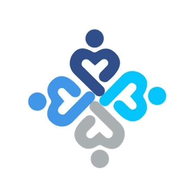
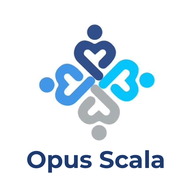
Novo nome: Opus Scala (ícone com o nome, tela de acesso, e-mails e avisos)
Claude-Session: https://claude.ai/code/session_01CbFvf9UYYjaysQvcZMUi3W

Changed region(s): [[0.125, 0.125, 0.875, 0.9062]]

diff --git a/app.js b/app.js
@@ -1,5 +1,5 @@
 /* =====================================================================
-   Plantão UTI — frontend (JavaScript puro, sem framework, sem build)
+   Opus Scala (antigo Plantão UTI) — frontend (JavaScript puro, sem framework, sem build)
    Blocos: helpers · supabase · state · data loading · realtime ·
            auth flow · views · actions · boot
    Toda regra que importa é validada no banco (RLS + funções RPC).
@@ -422,7 +422,7 @@
       ? ['Cadastro inativo', 'Seu cadastro está inativo. Se isso for um engano, fale com o gestor da escala.']
       : ['E-mail não cadastrado', 'O e-mail <b>' + esc(email) + '</b> não está cadastrado na equipe. Peça ao gestor para cadastrá-lo exatamente como você digitou, ou entre com outro e-mail.'];
     S.started = false;
-    setApp('<div class="center"><div class="card login stack"><div class="logo"><img src="icons/icon-192.png" alt=""><h2>' + t[0] + '</h2></div><p>' + t[1] + '</p><button class="btn block" data-act="logout">Sair e usar outro e-mail</button></div></div>');
+    setApp('<div class="center"><div class="card login stack"><div class="logo"><img class="logo-sym" src="icons/symbol.png" alt=""><h2>' + t[0] + '</h2></div><p>' + t[1] + '</p><button class="btn block" data-act="logout">Sair e usar outro e-mail</button></div></div>');
   }
 
   function showLogin(msg) {
@@ -448,7 +448,7 @@
         '<button type="button" class="btn ghost sm" data-act="resend" ' + (wait ? 'disabled' : '') + '>' + (wait ? 'Reenviar em ' + wait + ' s' : 'Reenviar código') + '</button></div>' +
         '<p class="hint">Você também pode tocar no link do e-mail. No iPhone, com o app instalado na tela inicial, prefira digitar o código.</p></form>';
     }
-    setApp('<div class="center"><div class="login"><div class="logo"><img src="icons/icon-192.png" alt=""><h1>Plantão UTI</h1><div class="muted small">Escala, trocas e presença</div></div>' +
+    setApp('<div class="center"><div class="login"><div class="logo"><img class="logo-sym" src="icons/symbol.png" alt=""><h1 class="wordmark">Opus Scala</h1><div class="muted small">Escala, trocas e presença dos plantões</div></div>' +
       '<div class="card">' + (msg ? '<div class="chip bad" style="white-space:normal;margin-bottom:12px;display:block;padding:8px 10px;border-radius:10px">' + esc(msg) + '</div>' : '') + body + '</div></div></div>');
     const f = L.step === 'email' ? $('#lg-email') : $('#lg-code');
     if (f) setTimeout(() => f.focus(), 50);
@@ -490,7 +490,7 @@
     try { body = views[S.tab](); } catch (e) { console.error(e); body = '<div class="card">Erro ao montar a tela: ' + esc(e.message) + '</div>'; }
     const y = window.scrollY;
     setApp(
-      '<header class="topbar"><div class="brand"><img src="icons/icon-192.png" alt=""><span>Plantão UTI</span></div><div class="spacer"></div>' +
+      '<header class="topbar"><div class="brand"><img src="icons/symbol.png" alt=""><span class="wordmark">Opus Scala</span></div><div class="spacer"></div>' +
       (isMgr() ? '<div class="seg" role="group" aria-label="Modo"><button data-act="role" data-role="gestor" class="' + (S.role === 'gestor' ? 'on' : '') + '">Gestor</button><button data-act="role" data-role="plantonista" class="' + (S.role === 'plantonista' ? 'on' : '') + '">Plantonista</button></div>' : '') +
       '<button class="acct" data-act="account" title="Minha conta" aria-label="Minha conta"><span class="who">' + esc(shortName(S.me.name)) + '</span><span class="avatar">' + esc((shortName(S.me.name)[0] || '?').toUpperCase()) + '</span></button></header>' +
       '<nav class="tabs" aria-label="Seções">' + tabs.map((t) => '<button data-act="tab" data-tab="' + t[0] + '" class="' + (S.tab === t[0] ? 'on' : '') + '">' + ICON[t[0]] + '<span>' + t[1] + '</span>' + (t[0] === 'trocas' && badge ? '<span class="badge">' + badge + '</span>' : '') + '</button>').join('') + '</nav>' +
@@ -1204,7 +1204,7 @@
   }
   const needsProfile = () => !(S.me && validCrm(S.me.crm) && validPhone(S.me.phone));
   function viewProfile() {
-    return '<div class="center"><div class="login" style="max-width:460px"><div class="logo"><img src="icons/icon-192.png" alt=""><h1>Complete seu cadastro</h1><div class="muted small">Falta pouco, ' + esc(shortName(S.me.name).split(' ')[0]) + '. Estes dados aparecem para o gestor e para a equipe.</div></div>' +
+    return '<div class="center"><div class="login" style="max-width:460px"><div class="logo"><img class="logo-sym" src="icons/symbol.png" alt=""><h1>Complete seu cadastro</h1><div class="muted small">Falta pouco, ' + esc(shortName(S.me.name).split(' ')[0]) + '. Estes dados aparecem para o gestor e para a equipe.</div></div>' +
       '<form class="card stack" data-submit="saveProfile" novalidate>' + crmPhoneFields(S.me.crm, S.me.phone, true) +
       '<button class="btn primary block" type="submit">Salvar e continuar</button>' +
       '<button type="button" class="btn ghost sm" data-act="logout">Sair</button></form></div></div>';
@@ -1293,7 +1293,7 @@
     const html = {
       on: '<div class="row between"><span>' + chip('Ativadas', 'ok') + '</span><span class="row" style="gap:6px"><button class="btn sm" data-act="pushTest">Enviar teste</button><button class="btn sm" data-act="pushOff">Desativar</button></span></div><p class="hint">Avisos de trocas, lembretes de check-in e check-out' + (isMgr() ? ' e alertas de UTI sem check-in' : '') + '.</p>',
       off: '<p class="muted" style="margin:0 0 8px">Desativadas neste aparelho.</p><button class="btn primary sm" data-act="pushOn">Ativar notificações</button>',
-      denied: '<p style="margin:0">' + chip('Bloqueadas', 'bad') + '</p><p class="hint">Libere nas configurações: no iPhone, Ajustes > Notificações > Plantão UTI; no Android, toque no cadeado ao lado do endereço > Permissões > Notificações.</p>',
+      denied: '<p style="margin:0">' + chip('Bloqueadas', 'bad') + '</p><p class="hint">Libere nas configurações: no iPhone, Ajustes > Notificações > Opus Scala; no Android, toque no cadeado ao lado do endereço > Permissões > Notificações.</p>',
       'ios-install': '<p style="margin:0">No iPhone, as notificações só funcionam com o app instalado: no Safari, toque em <b>Compartilhar</b> > <b>Adicionar à Tela de Início</b> e abra o app pelo ícone. Precisa do iOS 16.4 ou mais novo.</p>',
       unsupported: '<p class="muted" style="margin:0">Este navegador não oferece notificações. No Android use o Chrome; no iPhone, o app instalado na tela inicial.</p>'
     }[st];
@@ -1338,7 +1338,7 @@
     const pdf = new window.jspdf.jsPDF({ orientation: 'landscape', unit: 'mm', format: 'a4' });
     const W = 297, H = 210, M = 10, MES = ['Janeiro', 'Fevereiro', 'Março', 'Abril', 'Maio', 'Junho', 'Julho', 'Agosto', 'Setembro', 'Outubro', 'Novembro', 'Dezembro'];
     const SEM = ['Segunda', 'Terça', 'Quarta', 'Quinta', 'Sexta', 'Sábado', 'Domingo'];
-    const now = new Date(), gen = 'Gerado em ' + fmtDMY(now) + ' às ' + fmtHM(now) + ' · Plantão UTI';
+    const now = new Date(), gen = 'Gerado em ' + fmtDMY(now) + ' às ' + fmtHM(now) + ' · Opus Scala';
     const months = []; const d0 = parseYmd(from); d0.setDate(1); const dEnd = parseYmd(to);
     for (const d = new Date(d0); d <= dEnd; d.setMonth(d.getMonth() + 1)) months.push(new Date(d));
     let firstPage = true;

diff --git a/index.html b/index.html
@@ -3,7 +3,7 @@
 <head>
 <meta charset="utf-8">
 <meta name="viewport" content="width=device-width, initial-scale=1, viewport-fit=cover">
-<title>Plantão UTI</title>
+<title>Opus Scala</title>
 <meta name="description" content="Escala, trocas e presença dos plantões das UTIs">
 <meta name="theme-color" content="#0b6e74" media="(prefers-color-scheme: light)">
 <meta name="theme-color" content="#0e1a1c" media="(prefers-color-scheme: dark)">
@@ -11,13 +11,13 @@
 <meta name="apple-mobile-web-app-capable" content="yes">
 <meta name="mobile-web-app-capable" content="yes">
 <meta name="apple-mobile-web-app-status-bar-style" content="default">
-<meta name="apple-mobile-web-app-title" content="Plantão UTI">
+<meta name="apple-mobile-web-app-title" content="Opus Scala">
 <link rel="manifest" href="manifest.webmanifest">
 <link rel="icon" href="icons/favicon-64.png">
 <link rel="apple-touch-icon" href="icons/apple-touch-icon.png">
 <link rel="preconnect" href="https://fonts.googleapis.com">
 <link rel="preconnect" href="https://fonts.gstatic.com" crossorigin>
-<link href="https://fonts.googleapis.com/css2?family=Atkinson+Hyperlegible:ital,wght@0,400;0,700;1,400&display=swap" rel="stylesheet" media="print" onload="this.media='all'">
+<link href="https://fonts.googleapis.com/css2?family=Atkinson+Hyperlegible:ital,wght@0,400;0,700;1,400&family=Montserrat:wght@700&display=swap" rel="stylesheet" media="print" onload="this.media='all'">
 <style>
 :root{
   --bg:#f3f6f6; --surface:#ffffff; --surface2:#eef3f3; --line:#d7e0e0; --text:#152325; --muted:#5b6d70;
@@ -25,6 +25,7 @@
   --ok:#17803d; --ok-soft:#dcf3e4; --warn:#a15c00; --warn-soft:#fdf0d9; --bad:#b42318; --bad-soft:#fde4e1;
   --info:#1d5fb8; --info-soft:#e1ecfb; --gray-soft:#eceff0;
   --radius:14px; --shadow:0 1px 2px rgba(16,40,44,.06),0 4px 14px rgba(16,40,44,.06);
+  --logo-ink:#1e3a6e;
   --nav-h:64px; --safe-b:env(safe-area-inset-bottom,0px);
 }
 @media (prefers-color-scheme:dark){:root{
@@ -33,6 +34,7 @@
   --ok:#52c77a; --ok-soft:#163525; --warn:#f0b04c; --warn-soft:#3a2c12; --bad:#ff7a6b; --bad-soft:#40201c;
   --info:#7fb0ff; --info-soft:#1a2b45; --gray-soft:#22383a;
   --shadow:0 1px 2px rgba(0,0,0,.3);
+  --logo-ink:#8fb4ff;
 }}
 *{box-sizing:border-box}
 html,body{margin:0;padding:0}
@@ -51,7 +53,8 @@ h3{font-size:1rem}
 /* layout */
 .topbar{position:sticky;top:0;z-index:20;background:var(--surface);border-bottom:1px solid var(--line);padding:calc(env(safe-area-inset-top,0px) + 10px) 16px 10px;display:flex;align-items:center;gap:12px}
 .brand{display:flex;align-items:center;gap:10px;font-weight:700;font-size:1.05rem}
-.brand img{width:32px;height:32px;border-radius:8px;box-shadow:0 0 0 1px var(--line)}
+.brand img{width:30px;height:30px;object-fit:contain}
+.wordmark{font-family:Montserrat,"Atkinson Hyperlegible",system-ui,sans-serif;font-weight:700;color:var(--logo-ink);letter-spacing:-.01em}
 .topbar .spacer{flex:1}
 .who{font-size:.85rem;color:var(--muted);text-align:right;line-height:1.2}
 .seg{display:inline-flex;background:var(--surface2);border-radius:999px;padding:3px;border:1px solid var(--line)}
@@ -142,7 +145,8 @@ textarea.input{min-height:80px;resize:vertical}
 .center{min-height:100vh;min-height:100dvh;display:flex;align-items:center;justify-content:center;padding:24px 16px}
 .login{width:100%;max-width:400px}
 .login .logo{display:flex;flex-direction:column;align-items:center;gap:10px;margin-bottom:22px;text-align:center}
-.login .logo img{width:84px;height:84px;border-radius:20px;box-shadow:0 0 0 1px var(--line),0 4px 14px rgba(16,40,44,.08)}
+.login .logo img.logo-sym{width:112px;height:auto}
+.login .logo h1.wordmark{font-size:2rem;margin-top:2px}
 
 /* agora */
 .clock{font-size:2.2rem;font-weight:700;letter-spacing:.02em}
@@ -242,7 +246,7 @@ table.tbl{width:100%;border-collapse:collapse;font-size:.86rem}
 <div id="app"><div class="center"><div class="spinner" aria-label="Carregando"></div></div></div>
 <div id="modal" aria-modal="true" role="dialog"></div>
 <div id="toast" aria-live="polite"></div>
-<noscript><p style="padding:20px">Ative o JavaScript para usar o Plantão UTI.</p></noscript>
+<noscript><p style="padding:20px">Ative o JavaScript para usar o Opus Scala.</p></noscript>
 <script src="config.js"></script>
 <script src="vendor/supabase.js"></script>
 <script src="app.js"></script>

diff --git a/supabase/functions/relatorio-semanal/report.ts b/supabase/functions/relatorio-semanal/report.ts
@@ -111,7 +111,7 @@ const fmtBR = (ymd: string) => ymd.split("-").reverse().join("/");
 
 export async function buildWorkbook(d: Data, from: string, to: string, now: Date, lines: Line[], sums: Sum[]): Promise<Uint8Array> {
   const tz = d.settings.tz;
-  const wb = new ExcelJS.Workbook(); wb.creator = "Plantão UTI"; wb.created = now;
+  const wb = new ExcelJS.Workbook(); wb.creator = "Opus Scala"; wb.created = now;
   const head = { font: { bold: true, color: { argb: "FFFFFFFF" } }, fill: { type: "pattern", pattern: "solid", fgColor: { argb: "FF0B6E74" } }, alignment: { vertical: "middle", wrapText: true } } as const;
   const fill = (argb: string) => ({ type: "pattern", pattern: "solid", fgColor: { argb } }) as ExcelJS.Fill;
 
@@ -175,7 +175,7 @@ export async function buildWorkbook(d: Data, from: string, to: string, now: Date
   const info = wb.addWorksheet("Sobre");
   info.columns = [{ width: 34 }, { width: 70 }];
   const gen = asLocal(tz, now.toISOString())!;
-  [["Relatório", "Presença dos plantonistas — Plantão UTI"], ["Período", `${fmtBR(from)} a ${fmtBR(to)} (plantões que começaram nesse intervalo)`],
+  [["Relatório", "Presença dos plantonistas — Opus Scala"], ["Período", `${fmtBR(from)} a ${fmtBR(to)} (plantões que começaram nesse intervalo)`],
    ["Gerado em", gen.toISOString().slice(0, 16).replace("T", " ") + ` (${tz})`],
    ["Tolerância de atraso", `${d.settings.tolerance_min} min`],
    ["Pontual", "Check-in até o início do turno + tolerância"], ["Saída antecipada", "Check-out antes do fim do turno − tolerância"],
@@ -200,5 +200,5 @@ ${lines.length ? `<p style="font-size:15px"><b>${tot.n}</b> plantões · <b>${to
 <table style="border-collapse:collapse;font-size:13px;width:100%"><tr><th ${th}>Médico</th><th ${th}>Plantões</th><th ${th}>Pontuais</th><th ${th}>Atrasos</th><th ${th}>Sem check-in</th><th ${th}>Sem check-out</th><th ${th}>Horas</th></tr>
 ${sums.map((s) => `<tr><td ${tdl}>${esc(s.doctor)}</td><td ${td}>${s.n}</td><td ${td}>${s.ok}</td><td ${td}>${s.late}</td><td ${td}>${s.noin}</td><td ${td}>${s.noout}</td><td ${td}>${s.hours.toFixed(1).replace(".", ",")}</td></tr>`).join("")}
 </table>` : `<p>Nenhum plantão escalado nesse período.</p>`}
-<p style="font-size:12px;color:#5b6d70;margin-top:18px">Enviado automaticamente pelo Plantão UTI toda segunda-feira. Ajustes e detalhes: aba Presença do app.</p></div>`;
+<p style="font-size:12px;color:#5b6d70;margin-top:18px">Enviado automaticamente pelo Opus Scala toda segunda-feira. Ajustes e detalhes: aba Presença do app.</p></div>`;
 }

diff --git a/sw.js b/sw.js
@@ -1,10 +1,10 @@
-/* Service worker do Plantão UTI.
+/* Service worker do Opus Scala.
    Arquivos do app: abre na hora a partir do cache e atualiza em segundo plano
    (a versão nova aparece na abertura seguinte). Supabase e fontes vão direto à rede.
-   Para forçar atualização imediata nos celulares, troque o nome do cache (v9 -> v10). */
-const CACHE = 'plantao-uti-v9';
+   Para forçar atualização imediata nos celulares, troque o nome do cache (v10 -> v11). */
+const CACHE = 'plantao-uti-v10';
 const SHELL = ['./', 'index.html', 'app.js', 'config.js', 'vendor/supabase.js', 'manifest.webmanifest',
-  'icons/icon-192.png', 'icons/icon-512.png', 'icons/maskable-512.png', 'icons/apple-touch-icon.png', 'icons/favicon-64.png'];
+  'icons/icon-192.png', 'icons/icon-512.png', 'icons/maskable-512.png', 'icons/apple-touch-icon.png', 'icons/favicon-64.png', 'icons/symbol.png'];
 
 self.addEventListener('install', (e) => {
   e.waitUntil(caches.open(CACHE).then((c) => c.addAll(SHELL)).then(() => self.skipWaiting()));
@@ -29,8 +29,8 @@ self.addEventListener('fetch', (e) => {
 // Notificações push
 self.addEventListener('push', (e) => {
   let d = {};
-  try { d = e.data ? e.data.json() : {}; } catch (x) { d = { title: 'Plantão UTI', body: e.data ? e.data.text() : '' }; }
-  e.waitUntil(self.registration.showNotification(d.title || 'Plantão UTI', {
+  try { d = e.data ? e.data.json() : {}; } catch (x) { d = { title: 'Opus Scala', body: e.data ? e.data.text() : '' }; }
+  e.waitUntil(self.registration.showNotification(d.title || 'Opus Scala', {
     body: d.body || '', icon: 'icons/icon-192.png', badge: 'icons/icon-192.png',
     tag: d.tag || undefined, renotify: !!d.tag, data: { url: d.url || './' }
   }));

diff --git a/supabase/functions/push/index.ts b/supabase/functions/push/index.ts
@@ -1,4 +1,4 @@
-// Edge Function "push": envia notificações Web Push do Plantão UTI.
+// Edge Function "push": envia notificações Web Push do Opus Scala.
 // Chamada só pelo banco (cabeçalho x-cron-token). Corpos aceitos:
 //   {"event":"test","doctor_id":"..."}            teste para o próprio usuário
 //   {"event":"swap","id":"...","status":"..."}     avisos de troca e anúncio (gatilho em swaps)
@@ -68,7 +68,7 @@ Deno.serve(async (req) => {
     const claim = async (key: string) => { const { data } = await sb.rpc("claim_notification", { p_key: key }); return !!data; };
 
     if (body.event === "test") {
-      await send([body.doctor_id], { title: "Notificações ativadas", body: "Você vai receber os avisos do Plantão UTI neste aparelho.", url: "./", tag: "teste" });
+      await send([body.doctor_id], { title: "Notificações ativadas", body: "Você vai receber os avisos do Opus Scala neste aparelho.", url: "./", tag: "teste" });
     } else if (body.event === "swap") {
       const { data: w } = await sb.from("swaps").select("*").eq("id", body.id).single();
       if (w) {

diff --git a/supabase/functions/relatorio-semanal/index.ts b/supabase/functions/relatorio-semanal/index.ts
@@ -48,9 +48,9 @@ Deno.serve(async (req) => {
       method: "POST",
       headers: { "api-key": key, "Content-Type": "application/json", Accept: "application/json" },
       body: JSON.stringify({
-        sender: { name: st.report_from_name || "Plantão UTI", email: st.report_from },
+        sender: { name: st.report_from_name || "Opus Scala", email: st.report_from },
         to: recipients.map((email) => ({ email })),
-        subject: `Plantão UTI · presença de ${br(from)} a ${br(to)}`,
+        subject: `Opus Scala · presença de ${br(from)} a ${br(to)}`,
         htmlContent: emailHtml(from, to, lines, sums),
         attachment: [{ name: `presenca_${from}_a_${to}.xlsx`, content: encodeBase64(xlsx) }],
       }),

diff --git a/README.md b/README.md
@@ -1,4 +1,4 @@
-# Plantão UTI — app de escala, trocas e presença
+# Opus Scala — app de escala, trocas e presença (antigo Plantão UTI)
 
 PWA estático (HTML + JavaScript puro, sem build) + Supabase (Postgres, login por código no e-mail, RLS, funções RPC, Realtime).
 5 UTIs em 3 hospitais, turnos fixos 7h–19h e 19h–7h. A especificação técnica completa está no documento "Plantão UTI — Especificação técnica e guia de implantação".
